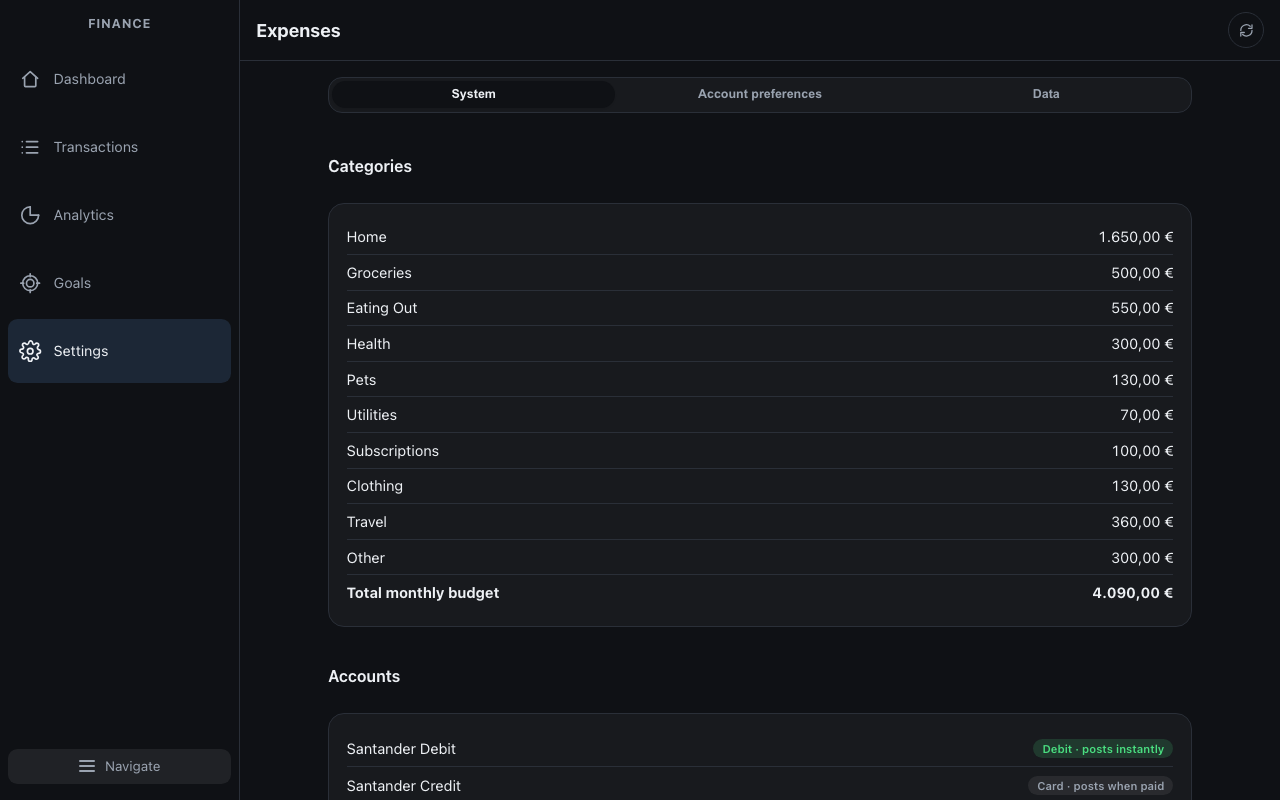
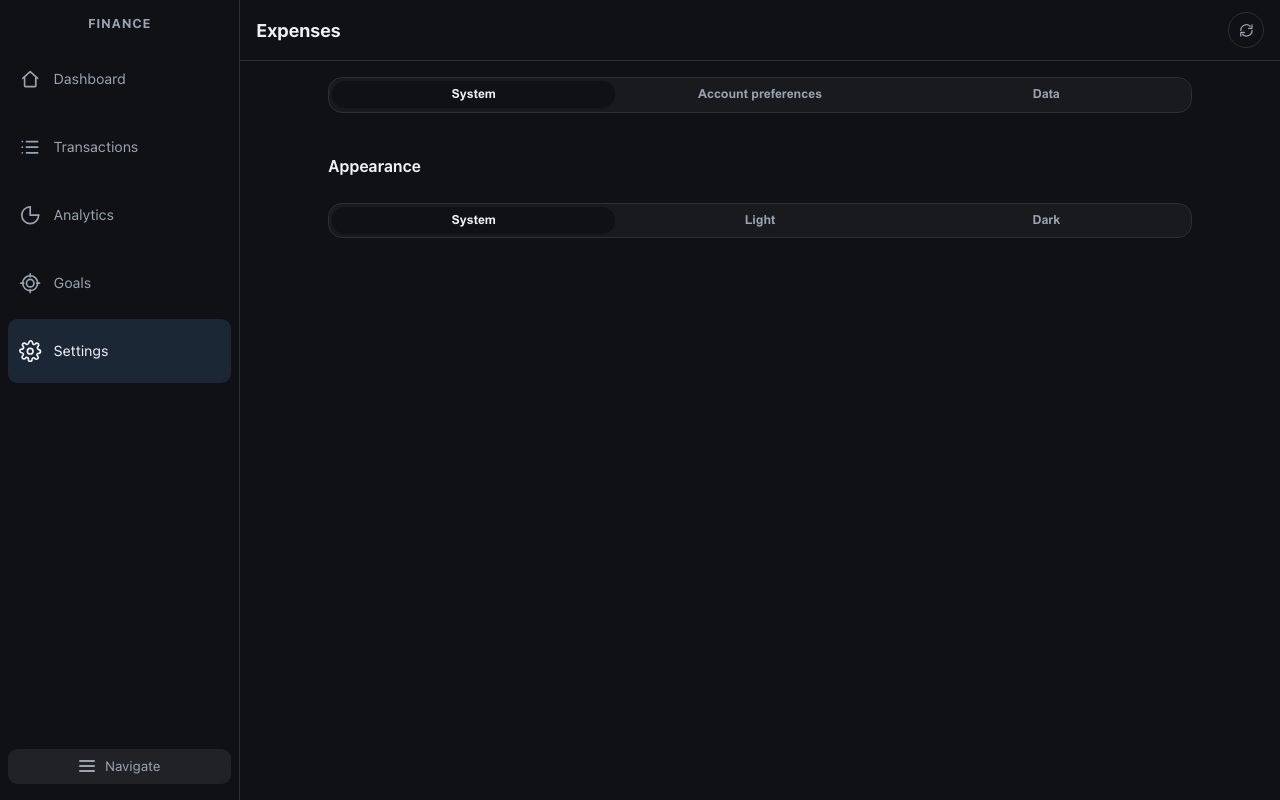
Swap System and Account preferences content
System now shows display/behavior settings (appearance, currency,
number format), and Account preferences shows the financial structure
(categories, accounts, card statements, setup wizard).

diff --git a/src/ui/tabs/SettingsTab.tsx b/src/ui/tabs/SettingsTab.tsx
@@ -134,9 +134,61 @@ function OwnerPreferences({
   )
 }
 
-function SystemView({ model, actions }: { model: ExpenseModel; actions: ExpenseActions | undefined }) {
+function SystemView({
+  model,
+  actions,
+  theme,
+  onThemeChange,
+}: {
+  model: ExpenseModel
+  actions: ExpenseActions | undefined
+  theme: ExpenseTheme
+  onThemeChange: (next: ExpenseTheme) => void
+}) {
   return (
     <>
+      <AppearanceSetting theme={theme} onChange={onThemeChange} />
+
+      {actions && (
+        <OwnerPreferences
+          settings={model.dataset.settings}
+          onChange={(patch) => actions.updateSettings(patch)}
+        />
+      )}
+
+      {actions && (
+        <DefaultAccountSetting
+          accounts={model.dataset.accounts}
+          settings={model.dataset.settings}
+          onChange={(accountId) => void actions.updateSettings({ defaultAccountId: accountId })}
+        />
+      )}
+    </>
+  )
+}
+
+function AccountView({
+  model,
+  actions,
+  ownerAccess,
+  accountEmail,
+  onRunSetup,
+}: {
+  model: ExpenseModel
+  actions: ExpenseActions | undefined
+  ownerAccess: { pendingCount: number } | undefined
+  accountEmail: string | undefined
+  onRunSetup: (() => void) | undefined
+}) {
+  return (
+    <>
+      {accountEmail ? <AccountSetting email={accountEmail} /> : null}
+      {ownerAccess ? <AccessRequestsSetting pendingCount={ownerAccess.pendingCount} /> : null}
+
+      {actions && onRunSetup && (
+        <SetupWizardEntry firstRun={needsOnboarding(model.dataset)} onRunSetup={onRunSetup} />
+      )}
+
       {actions ? (
         <DefinitionsEditor model={model} actions={actions} />
       ) : (
@@ -156,52 +208,6 @@ function SystemView({ model, actions }: { model: ExpenseModel; actions: ExpenseA
             )}
           </Card>
         </>
-      )}
-    </>
-  )
-}
-
-function AccountView({
-  model,
-  actions,
-  theme,
-  onThemeChange,
-  ownerAccess,
-  accountEmail,
-  onRunSetup,
-}: {
-  model: ExpenseModel
-  actions: ExpenseActions | undefined
-  theme: ExpenseTheme
-  onThemeChange: (next: ExpenseTheme) => void
-  ownerAccess: { pendingCount: number } | undefined
-  accountEmail: string | undefined
-  onRunSetup: (() => void) | undefined
-}) {
-  return (
-    <>
-      {accountEmail ? <AccountSetting email={accountEmail} /> : null}
-      {ownerAccess ? <AccessRequestsSetting pendingCount={ownerAccess.pendingCount} /> : null}
-
-      {actions && onRunSetup && (
-        <SetupWizardEntry firstRun={needsOnboarding(model.dataset)} onRunSetup={onRunSetup} />
-      )}
-
-      <AppearanceSetting theme={theme} onChange={onThemeChange} />
-
-      {actions && (
-        <OwnerPreferences
-          settings={model.dataset.settings}
-          onChange={(patch) => actions.updateSettings(patch)}
-        />
-      )}
-
-      {actions && (
-        <DefaultAccountSetting
-          accounts={model.dataset.accounts}
-          settings={model.dataset.settings}
-          onChange={(accountId) => void actions.updateSettings({ defaultAccountId: accountId })}
-        />
       )}
     </>
   )
@@ -261,14 +267,14 @@ export function SettingsTab({
         />
       </div>
 
-      {view === 'system' && <SystemView model={model} actions={actions} />}
+      {view === 'system' && (
+        <SystemView model={model} actions={actions} theme={theme} onThemeChange={onThemeChange} />
+      )}
 
       {view === 'account' && (
         <AccountView
           model={model}
           actions={actions}
-          theme={theme}
-          onThemeChange={onThemeChange}
           ownerAccess={ownerAccess}
           accountEmail={accountEmail}
           onRunSetup={onRunSetup}
